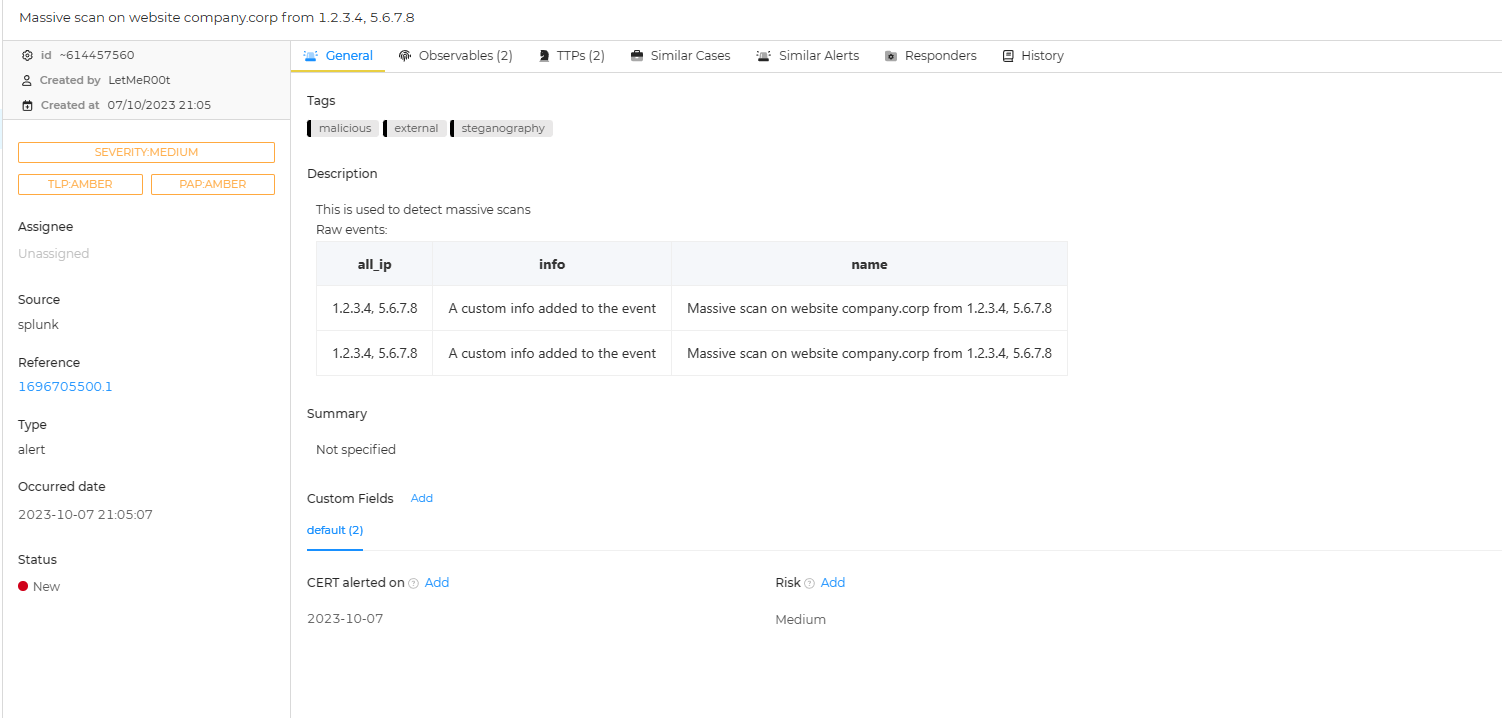
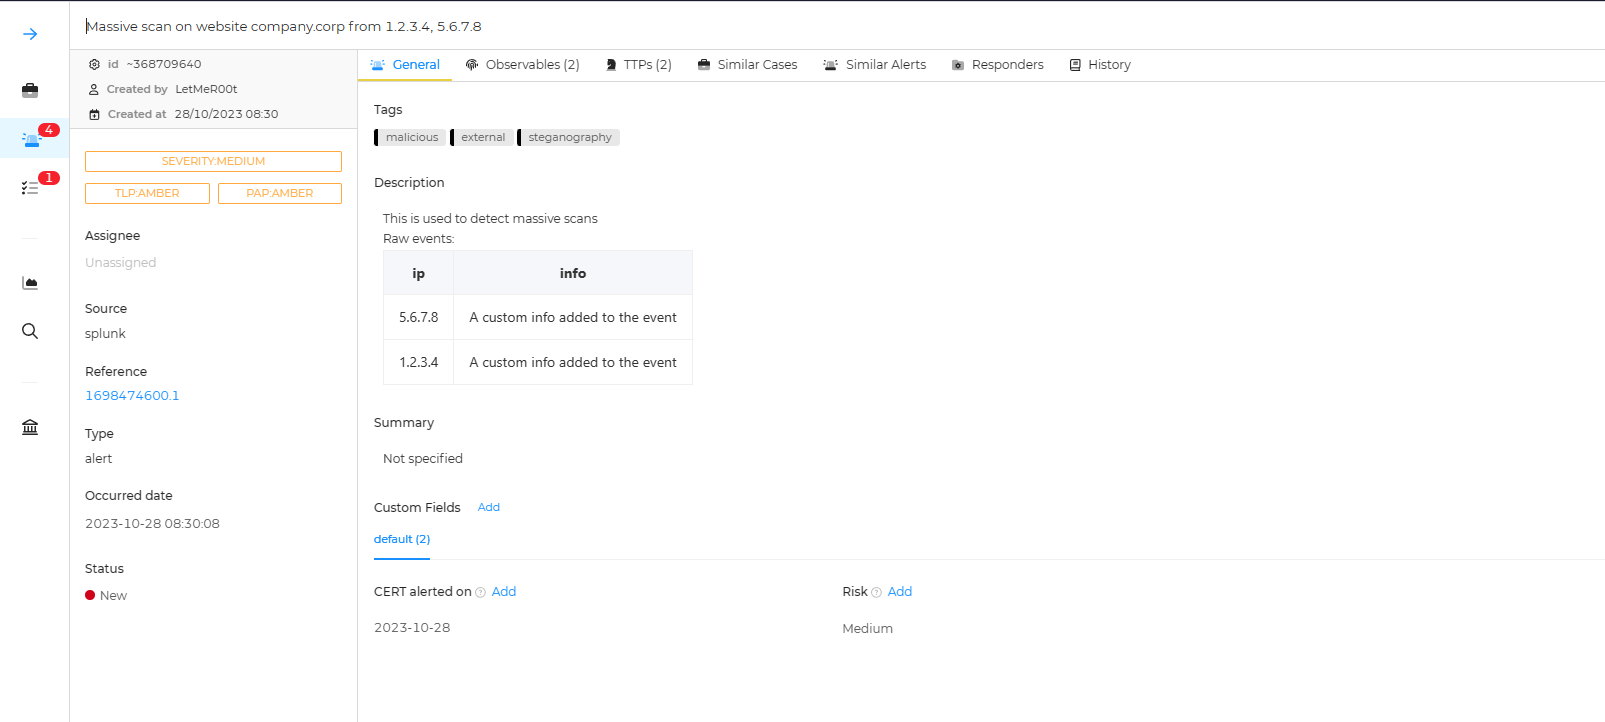
docs: update documentation to reflect the feature about the sanitized table in the description

diff --git a/docs/alert_actions_and_adaptive_response.md b/docs/alert_actions_and_adaptive_response.md
@@ -13,16 +13,18 @@
     - [Splunk search](#splunk-search-1)
     - [Splunk screenshots](#splunk-screenshots-1)
     - [TheHive screenshots](#thehive-screenshots-1)
+    - [Splunk screenshot](#splunk-screenshot)
+    - [TheHive screenshots](#thehive-screenshots-2)
   - [UC3: Correlation Search - One single case](#uc3-correlation-search---one-single-case)
     - [Prerequisites](#prerequisites-2)
     - [Splunk search](#splunk-search-2)
     - [Splunk screenshots](#splunk-screenshots-2)
-    - [TheHive screenshots](#thehive-screenshots-2)
+    - [TheHive screenshots](#thehive-screenshots-3)
   - [UC4: Notable event - Adaptative Response](#uc4-notable-event---adaptative-response)
     - [Prerequisites](#prerequisites-3)
     - [Splunk search](#splunk-search-3)
     - [Splunk screenshots](#splunk-screenshots-3)
-    - [TheHive screenshots](#thehive-screenshots-3)
+    - [TheHive screenshots](#thehive-screenshots-4)
   - [UC5: TheHive Function - Saved search, Correlation search or Adaptative Response](#uc5-thehive-function---saved-search-correlation-search-or-adaptative-response)
     - [Prerequisites](#prerequisites-4)
     - [TheHive Function screenshots](#thehive-function-screenshots)
@@ -123,8 +125,9 @@ Input:
 | eval ip="1.3.5.8", ttp="reconnaissance::T1593.002::"+tostring(strftime(now(),"%Y-%m-%d")), unique=tostring(now())+".2"
 | table ip, ttp, unique]
 | eventstats values(ip) as all_ip by unique
-| eval all_ip = mvjoin(all_ip,", ")
+| eval all_ip = mvjoin(all_ip,", ") 
 | eval name = "Massive scan on website company.corp from "+all_ip, cert-alerted-on=now(), risk="Medium", info="A custom info added to the event"
+| fields - all_ip
 ```
 
 > Please note that the field "all_ip" is used to build the title but will not be taking into account by the script as it's not a relevant field (not a custom field nor an observable or a reserved named field for TheHive). However, the option to append the results was selected and a table will be added to the description containing this information.
@@ -138,6 +141,7 @@ Output:
 
 ![UC2 - Saved search configuration 1](images/../../images/uc2_ss1.png)
 ![UC2 - Saved search configuration 2](images/../../images/uc2_ss2.png)
+![UC2 - Saved search configuration 3](images/../../images/uc2_ss3.png)
 
 ### TheHive screenshots
 
@@ -148,6 +152,17 @@ Output:
 ![UC2 - TheHive alert 5](images/../../images/uc2_thehive5.png)
 ![UC2 - TheHive alert 6](images/../../images/uc2_thehive6.png)
 ![UC2 - TheHive alert 7](images/../../images/uc2_thehive7.png)
+
+Alternative output could be, with the same configuration but without keeping the observables in the sanitized table provided in the description as is:
+
+### Splunk screenshot
+
+![UC2 - Saved search configuration Alt 2](images/../../images/uc2_ss2_alt.png)
+
+### TheHive screenshots
+
+![UC2 - TheHive alert Alt 2](images/../../images/uc2_thehive2_alt.png)
+![UC2 - TheHive alert Alt 5](images/../../images/uc2_thehive5_alt.png)
 
 ## UC3: Correlation Search - One single case
 
